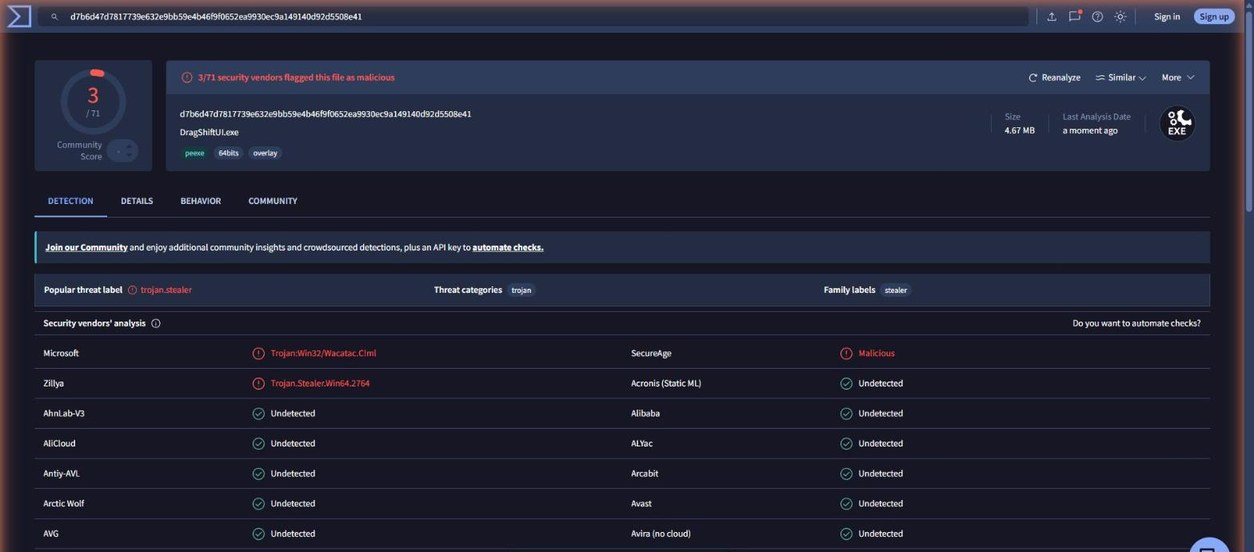
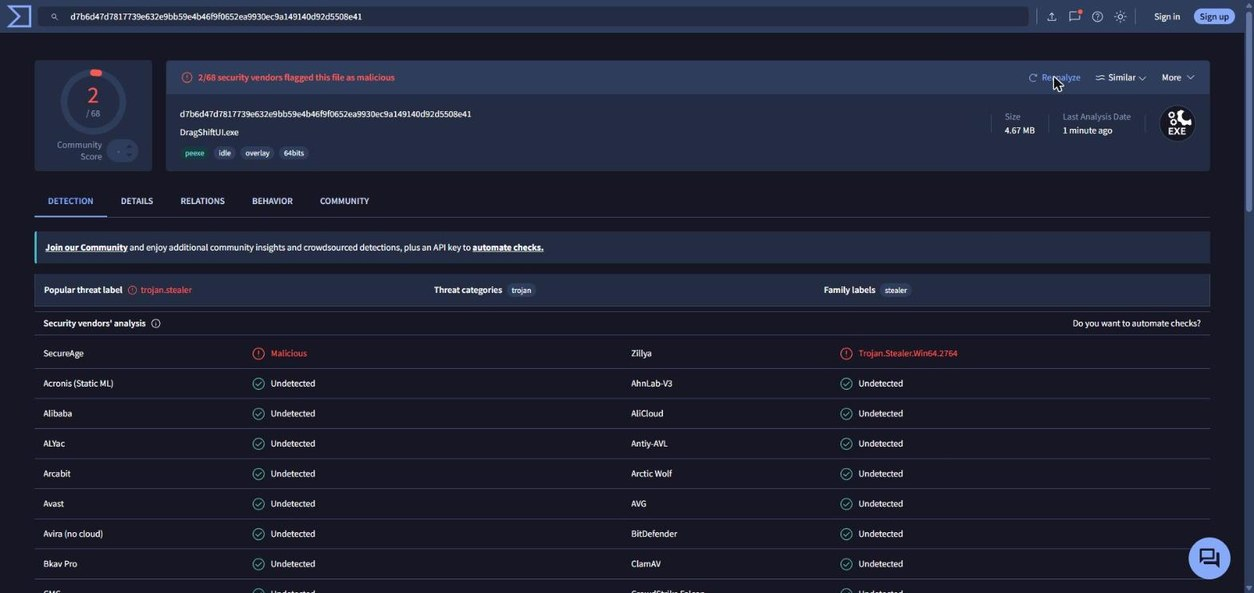
README: Microsoft cleared DragShiftUI.exe, VirusTotal 2/68

diff --git a/README.md b/README.md
@@ -74,7 +74,7 @@ Windows 10 и 11, 64 бита. ffmpeg уже внутри, ничего доус
[6 lines of base64/hex data omitted]
 
 ![VirusTotal: установщик](docs/img/vt-setup.jpg)
@@ -85,7 +85,7 @@ Windows 10 и 11, 64 бита. ffmpeg уже внутри, ничего доус
 
 ![VirusTotal: портативный zip](docs/img/vt-portable.jpg)
 
-Установщик чистый. Срабатывания у бинарей ложные, и вот почему. **SecureAge** помечает «Malicious» почти любой свежий exe без платной цифровой подписи. **Zillya** называет `Trojan.Stealer` стандартный загрузчик PyInstaller, которым упакованы окна редактора; она же находит его внутри zip. **Microsoft** в 2.2.0 выдал на окна редактора `Wacatac.C!ml`: суффикс `!ml` значит, что это догадка нейросетки, а не сигнатура, и она часто цепляет неподписанные сборки PyInstaller. Kaspersky, ESET, Bitdefender, Avast, DrWeb, CrowdStrike и остальные 60+ движков ничего не видят. Код открыт, сборку можно повторить командой из раздела ниже и сравнить хеши.
+Установщик чистый. Срабатывания у бинарей ложные, и вот почему. **SecureAge** помечает «Malicious» почти любой свежий exe без платной цифровой подписи. **Zillya** называет `Trojan.Stealer` стандартный загрузчик PyInstaller, которым упакованы окна редактора; она же находит его внутри zip. Microsoft Defender, Kaspersky, ESET, Bitdefender, Avast, DrWeb, CrowdStrike и остальные 60+ движков ничего не видят. Код открыт, сборку можно повторить командой из раздела ниже и сравнить хеши.
 
 ## Безопасность
 
@@ -154,7 +154,7 @@ powershell -ExecutionPolicy Bypass -File packaging\build.ps1 -Python .venv\Scrip
 
 On disk: 270 MB installed (daemon 1 MB, editor windows 174 MB, ffmpeg 95 MB); the installer is 69.5 MB, the portable zip 104 MB.
 
-**VirusTotal (2.2.0):** Setup.exe 0/66, Portable.zip 1/60, DragShift.exe 1/70, DragShiftUI.exe 3/71, ffmpeg.exe 0/69. Links and SHA-256 are in the table above. Setup is clean; the hits on the binaries are false positives: SecureAge flags almost any new unsigned exe, Zillya calls the stock PyInstaller bootloader of the editor windows `Trojan.Stealer` (and finds it again inside the zip), and Microsoft's `Wacatac.C!ml` is a machine-learning guess, not a signature, that often lands on unsigned PyInstaller builds. Kaspersky, ESET, Bitdefender and 60+ other engines report nothing.
+**VirusTotal (2.2.0):** Setup.exe 0/66, Portable.zip 1/60, DragShift.exe 1/70, DragShiftUI.exe 2/68, ffmpeg.exe 0/69. Links and SHA-256 are in the table above. Setup is clean; the hits on the binaries are false positives: SecureAge flags almost any new unsigned exe, Zillya calls the stock PyInstaller bootloader of the editor windows `Trojan.Stealer` (and finds it again inside the zip). Defender, Kaspersky, ESET, Bitdefender and 60+ other engines report nothing.
 
 **Build:** Rust stable, Python 3.10+, Inno Setup 6, then `packaging\build.ps1` (see above). `DragShift.exe --selftest` runs 33 audio/video scenarios.
 
